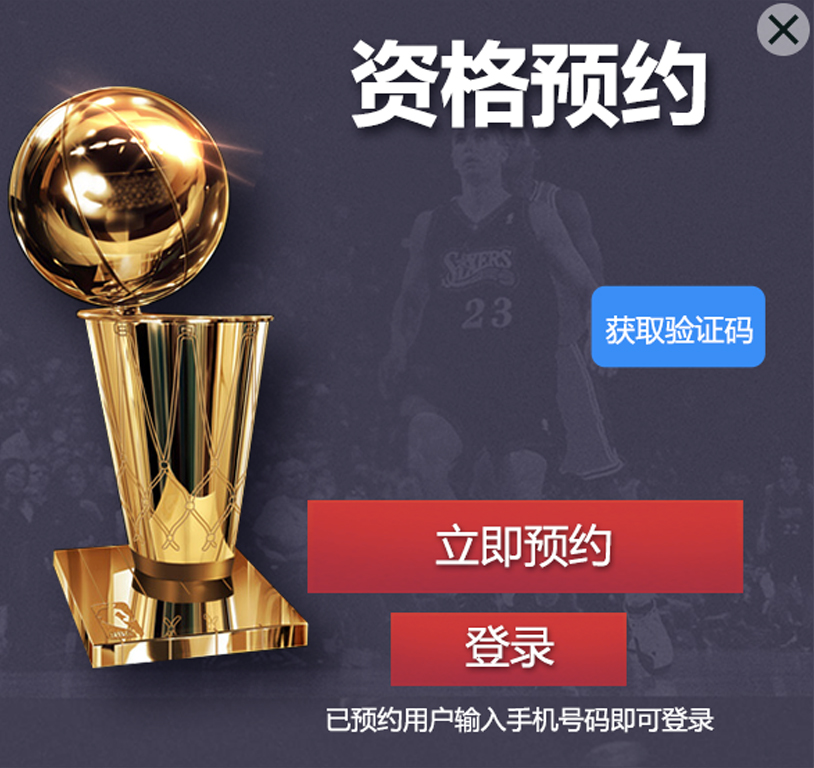
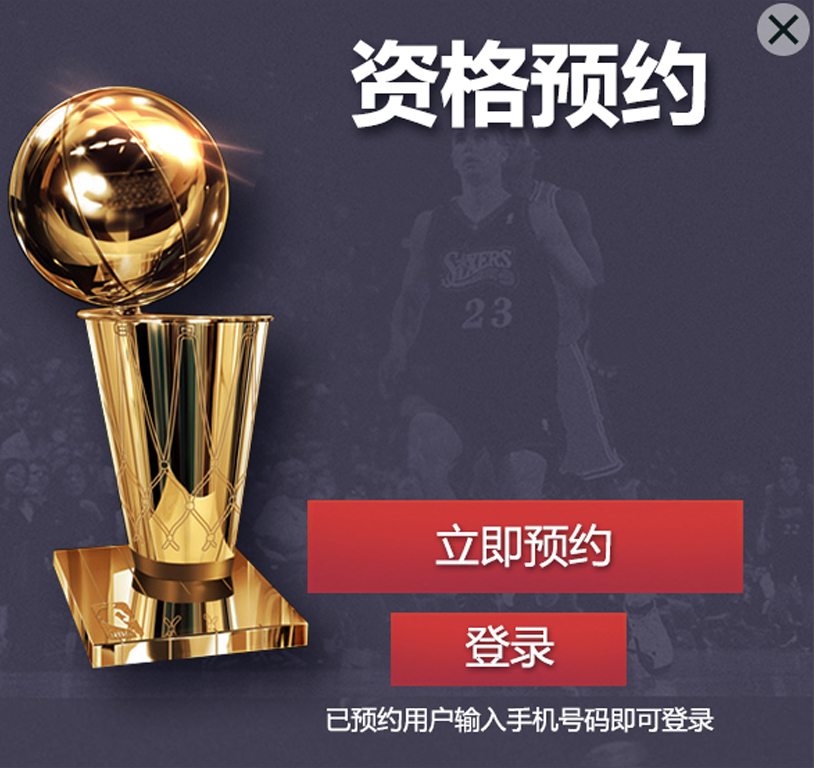
asd

Changed region(s): [[0.7064, 0.3438, 0.9521, 0.5]]

diff --git a/js/index.js b/js/index.js
@@ -97,29 +97,31 @@ function btn2($option){
 function mybtn(){
 	var usemy_start=document.cookie.indexOf("name"); 
 	if(usemy_start==-1){
-		alert(usemy_start);
 		btn1('login_slt');
 		
 	}
 	else {
-		alert(usemy_start);
-		//btn1('open');
+		//alert(usemy_start);
 		btn1('invite');
 	}
 }
 
 function denglubtn(){
 	var aa = document.getElementById("mytel").value; 
-	$.ajax({
-					url:'login.php',
-					type:'post',
-					dataType:'json',
-					data:{val1:aa},
-					success:function(data){
-					var str1 = data.val1;
-					var str2 = data.val2;
-					alert('登录成功');
-					location.href='./'
-				}
-				});
-}
+	var pattern = /^1[34578]\d{9}$/;
+	if( $aa!="" && pattern.test($aa) && $aa.length==11)
+	{
+		$.ajax({
+						url:'login.php',
+						type:'post',
+						dataType:'json',
+						data:{val1:aa},
+						success:function(data){
+						var str1 = data.val1;
+						var str2 = data.val2;
+						alert('登录成功');
+						location.href='./'
+					}
+					});
+	}
+	}

diff --git a/m/js/index.js b/m/js/index.js
@@ -2,6 +2,10 @@ function btn1($option){
 	$login_slt = document.getElementById('login_slt').style; 
 	$invite = document.getElementById('succeed').style; 
 	$gift = document.getElementById('gift').style; 
+	var usemy_start=document.cookie.indexOf("phonena"); 
+	if(usemy_start==-1){
+		$option="login_slt"
+	}
 	if($option=="login_slt"){
 		//alert("1234");
 		if($login_slt.display == 'block')
@@ -94,7 +98,10 @@ function mybtn(){
 
 function denglubtn(){
 	var aa = document.getElementById("mytel").value; 
-	$.ajax({
+	var pattern = /^1[34578]\d{9}$/;
+	if( $aa!="" && pattern.test($aa) && $aa.length==11)
+	{
+		$.ajax({
 					url:'login.php',
 					type:'post',
 					dataType:'json',
@@ -106,4 +113,5 @@ function denglubtn(){
 					location.href='./'
 				}
 				});
+	}
 }

diff --git a/css/index.css b/css/index.css
@@ -195,7 +195,7 @@ body,div,h1,h2,h3,h4,h5,form,img,ul,ol,li,dl,dt,dd,p {margin:0; padding:0;}
 	.gift p{
 		font-size:0.14rem;
 		font-family:Microsoft YaHei;
-		color:red;
+		color:#13304f;
 		width:0.4rem;
 		text-align:center;
 		display:inline-block;
@@ -220,11 +220,11 @@ body,div,h1,h2,h3,h4,h5,form,img,ul,ol,li,dl,dt,dd,p {margin:0; padding:0;}
 		font-size:0.17rem;
 	}
 	.login_slt input{
-		border-radius:5px;
+		border-radius:2px;
 		border: 0px;
 		height:0.17rem;
 		margin-left:38.7%;
-		font-size:0.08rem;
+		font-size:0.06rem;
 	}
 	.close_btn {display: block; position: absolute; top: 0.31rem; right: 0.01rem; overflow: hidden; text-indent: -9999px; width: 0.41rem; height: 0.41rem;}
 	.login_slt h3{height:1.23rem; text-indent: -9999px;}

diff --git a/m/css/index.css b/m/css/index.css
@@ -215,7 +215,7 @@ body,div,h1,h2,h3,h4,h5,form,img,ul,ol,li,dl,dt,dd,p {margin:0; padding:0;}
 	.gift p{
 		font-size:0.24rem;
 		font-family:Microsoft YaHei;
-		color:red;
+		color:#13304f;
 		margin-top:1.56rem;
 		width:0.67rem;
 		text-align:center;
@@ -245,6 +245,7 @@ body,div,h1,h2,h3,h4,h5,form,img,ul,ol,li,dl,dt,dd,p {margin:0; padding:0;}
 		height:0.43rem;
 		width:2.7rem;
 		margin-left:38.7%;
+		font-size:0.15rem;
 	}
 	.inbtn {
 		BACKGROUND-COLOR: transparent;
